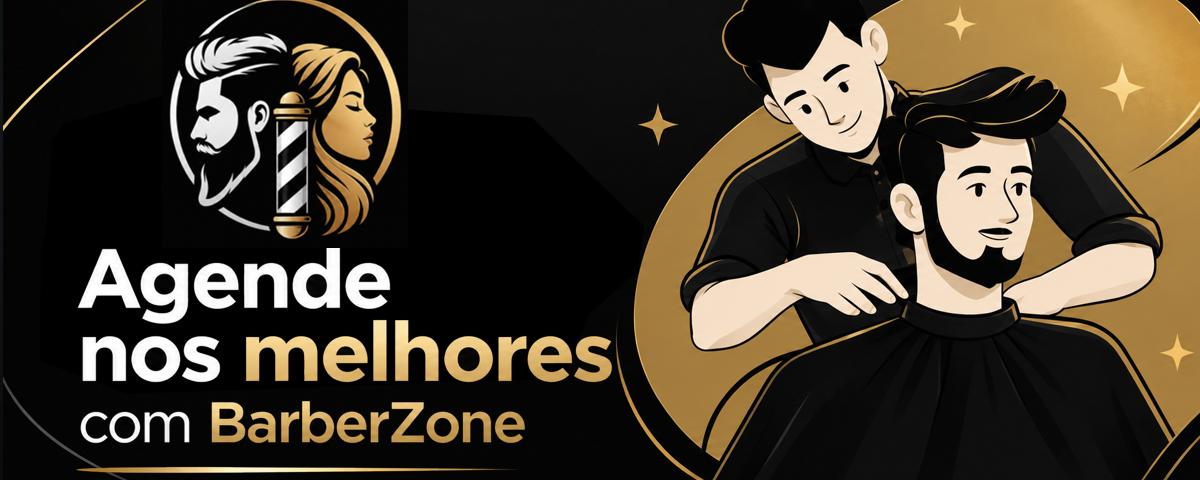
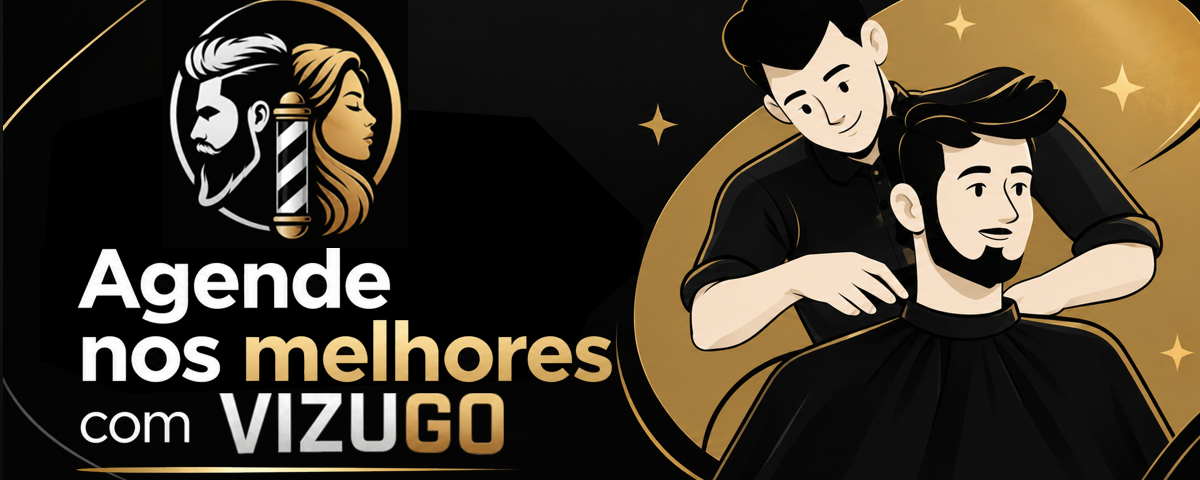
feat: atualizar referências de "BarberZone" para "VizuGo" em todo o projeto

Changed region(s): [[0.1542, 0.8125, 0.4625, 0.9688]]

diff --git a/app/_lib/notifications/templates.ts b/app/_lib/notifications/templates.ts
@@ -32,8 +32,8 @@ export const getConfirmationEmailTemplate = (data: NotificationBookingData) => {
         <p style="margin: 6px 0;"><strong>Data e Hora:</strong> ${formattedDate}</p>
       </div>
 
-      <p style="color: #a1a1aa; font-size: 14px;">Caso precise cancelar ou reagendar, acesse o aplicativo BarberZone.</p>
-      <p style="text-align: center; color: #71717a; font-size: 12px; margin-top: 30px;">BarberZone - Sistema de Agendamentos</p>
+      <p style="color: #a1a1aa; font-size: 14px;">Caso precise cancelar ou reagendar, acesse o aplicativo VizuGo.</p>
+      <p style="text-align: center; color: #71717a; font-size: 12px; margin-top: 30px;">VizuGo - Sistema de Agendamentos</p>
     </div>
   `
   const text = `Olá ${data.clientName}, seu agendamento em ${data.barbershopName} para ${data.serviceName} (${data.professionalName ? `com ${data.professionalName}` : ""}) no dia ${formattedDate} foi confirmado.`
@@ -57,7 +57,7 @@ export const getReminderEmailTemplate = (data: NotificationBookingData) => {
       </div>
 
       <p style="color: #a1a1aa; font-size: 14px;">Te esperamos lá! Em caso de imprevistos, cancele com antecedência pelo app.</p>
-      <p style="text-align: center; color: #71717a; font-size: 12px; margin-top: 30px;">BarberZone - Sistema de Agendamentos</p>
+      <p style="text-align: center; color: #71717a; font-size: 12px; margin-top: 30px;">VizuGo - Sistema de Agendamentos</p>
     </div>
   `
   const text = `Olá ${data.clientName}, lembrete do seu agendamento em ${data.barbershopName} para ${data.serviceName} em ${formattedDate}.`
@@ -80,8 +80,8 @@ export const getCancellationEmailTemplate = (data: NotificationBookingData) => {
         <p style="margin: 6px 0;"><strong>Data e Hora:</strong> ${formattedDate}</p>
       </div>
 
-      <p style="color: #a1a1aa; font-size: 14px;">Você pode realizar um novo agendamento a qualquer momento pelo BarberZone.</p>
-      <p style="text-align: center; color: #71717a; font-size: 12px; margin-top: 30px;">BarberZone - Sistema de Agendamentos</p>
+      <p style="color: #a1a1aa; font-size: 14px;">Você pode realizar um novo agendamento a qualquer momento pelo VizuGo.</p>
+      <p style="text-align: center; color: #71717a; font-size: 12px; margin-top: 30px;">VizuGo - Sistema de Agendamentos</p>
     </div>
   `
   const text = `Olá ${data.clientName}, seu agendamento em ${data.barbershopName} para ${data.serviceName} em ${formattedDate} foi cancelado.`
@@ -98,12 +98,12 @@ export const getWhatsAppMessageText = (
 
   switch (type) {
     case "CONFIRMATION":
-      return `✂ *BarberZone - Agendamento Confirmado!*\n\nOlá *${data.clientName}*, seu horário na *${data.barbershopName}* foi confirmado!\n\n📋 *Serviço:* ${data.serviceName}${prof}\n📅 *Data:* ${formattedDate}\n\nTe esperamos lá!`
+      return `✂ *VizuGo - Agendamento Confirmado!*\n\nOlá *${data.clientName}*, seu horário na *${data.barbershopName}* foi confirmado!\n\n📋 *Serviço:* ${data.serviceName}${prof}\n📅 *Data:* ${formattedDate}\n\nTe esperamos lá!`
     case "REMINDER":
-      return `⏰ *BarberZone - Lembrete!*\n\nOlá *${data.clientName}*, passando para lembrar do seu horário na *${data.barbershopName}* em breve.\n\n📋 *Serviço:* ${data.serviceName}${prof}\n📅 *Data:* ${formattedDate}\n\nQualquer imprevisto, avise-nos!`
+      return `⏰ *VizuGo - Lembrete!*\n\nOlá *${data.clientName}*, passando para lembrar do seu horário na *${data.barbershopName}* em breve.\n\n📋 *Serviço:* ${data.serviceName}${prof}\n📅 *Data:* ${formattedDate}\n\nQualquer imprevisto, avise-nos!`
     case "CANCELLATION":
-      return `❌ *BarberZone - Agendamento Cancelado*\n\nOlá *${data.clientName}*, seu agendamento na *${data.barbershopName}* para ${formattedDate} foi cancelado.`
+      return `❌ *VizuGo - Agendamento Cancelado*\n\nOlá *${data.clientName}*, seu agendamento na *${data.barbershopName}* para ${formattedDate} foi cancelado.`
     default:
-      return `BarberZone: Atualização sobre seu agendamento em ${data.barbershopName} (${formattedDate}).`
+      return `VizuGo: Atualização sobre seu agendamento em ${data.barbershopName} (${formattedDate}).`
   }
 }

diff --git a/app/landingB/_components/banner-carousel.tsx b/app/landingB/_components/banner-carousel.tsx
@@ -38,7 +38,7 @@ export const BannerCarousel = ({ banners }: BannerCarouselProps) => {
   }
 
   return (
-    <div className="group relative h-[180px] w-full overflow-hidden rounded-3xl border shadow-2xl sm:h-[260px] md:h-[320px]">
+    <div className="group relative h-[200px] w-full overflow-hidden rounded-3xl border shadow-2xl sm:h-[350px] lg:h-[480px]">
       {/* Slides */}
       <div className="relative h-full w-full">
         {banners.map((banner, index) => (
@@ -52,7 +52,7 @@ export const BannerCarousel = ({ banners }: BannerCarouselProps) => {
           >
             <Image
               src={banner.imageUrl}
-              alt={banner.title || "Banner BarberZone"}
+              alt={banner.title || "Banner VizuGo"}
               fill
               className="object-cover"
               priority={index === 0}

diff --git a/app/layout.tsx b/app/layout.tsx
@@ -11,8 +11,8 @@ const inter = Inter({ subsets: ["latin"] })
 
 export const metadata: Metadata = {
   title: {
-    default: "BarberZone - Encontre a barbearia perfeita perto de você",
-    template: "BarberZone - Encontre a barbearia perfeita perto de você - %s",
+    default: "VizuGo - Encontre a barbearia perfeita perto de você",
+    template: "VizuGo - Encontre a barbearia perfeita perto de você - %s",
   },
   description: "Marketplace de agendamento para barbearias",
   icons: {

diff --git a/app/_components/header.tsx b/app/_components/header.tsx
@@ -19,7 +19,7 @@ const Header = () => {
     <Card className="rounded-none border-x-0 border-t-0">
       <CardContent className="mx-auto flex w-full max-w-7xl flex-row items-center justify-between p-5">
         <Link href="/">
-          <Image alt="BarberZone" src="/logo.png" height={18} width={120} />
+          <Image alt="VizuGo" src="/logo.png" height={18} width={120} />
         </Link>
 
         {/* Desktop Navbar (hidden on mobile, flex on md+) */}

diff --git a/app/landingB/page.tsx b/app/landingB/page.tsx
@@ -98,7 +98,7 @@ const LandingBPage = async () => {
 
             <div className="relative h-[220px] w-full overflow-hidden rounded-2xl shadow-2xl sm:h-[280px] lg:col-span-5">
               <Image
-                alt="BarberZone Marketplace"
+                alt="VizuGo Marketplace"
                 src="/banner-01.png"
                 fill
                 className="object-cover transition-transform duration-500 hover:scale-105"

diff --git a/app/bookings/page.tsx b/app/bookings/page.tsx
@@ -37,7 +37,7 @@ const Bookings = async () => {
               </h1>
               <p className="text-sm leading-relaxed text-muted-foreground">
                 Você precisa estar conectado para visualizar e gerenciar seus
-                agendamentos na BARBERZONE.
+                agendamentos na VizuGo.
               </p>
             </div>
             <div className="pt-2">

diff --git a/app/profile/page.tsx b/app/profile/page.tsx
@@ -47,7 +47,7 @@ const ProfilePage = async () => {
               </h1>
               <p className="text-sm leading-relaxed text-muted-foreground">
                 Você precisa estar conectado para visualizar e gerenciar seu
-                perfil na BARBERZONE.
+                perfil na VizuGo.
               </p>
             </div>
             <div className="pt-2">

diff --git a/app/_components/sidebar-sheet.tsx b/app/_components/sidebar-sheet.tsx
@@ -113,7 +113,7 @@ const SidebarSheet = () => {
             >
               <Link href="/admin">
                 <LogInIcon size={18} />
-                Gerenciar BARBERZONE
+                Gerenciar VizuGo
               </Link>
             </Button>
           </SheetClose>

diff --git a/app/_lib/auth.ts b/app/_lib/auth.ts
@@ -80,6 +80,5 @@ export const authOptions: AuthOptions = {
     },
   },
   secret:
-    process.env.NEXTAUTH_SECRET ||
-    "barberzone-super-secret-jwt-key-2026-secure",
+    process.env.NEXTAUTH_SECRET || "vizugo-super-secret-jwt-key-2026-secure",
 }

diff --git a/app/_lib/notifications/email.ts b/app/_lib/notifications/email.ts
@@ -29,7 +29,7 @@ export const sendEmail = async ({
 
   try {
     const data = await resend.emails.send({
-      from: "BarberZone <onboarding@resend.dev>",
+      from: "VizuGo <onboarding@resend.dev>",
       to: [to],
       subject,
       html,

diff --git a/app/_constants/banners.ts b/app/_constants/banners.ts
@@ -2,7 +2,7 @@ export const DEFAULT_BANNERS = [
   {
     id: "default-1",
     imageUrl: "/banner-01.png",
-    title: "Agende nos melhores com BarberZone",
+    title: "Agende nos melhores com VizuGo",
     order: 0,
   },
   {
